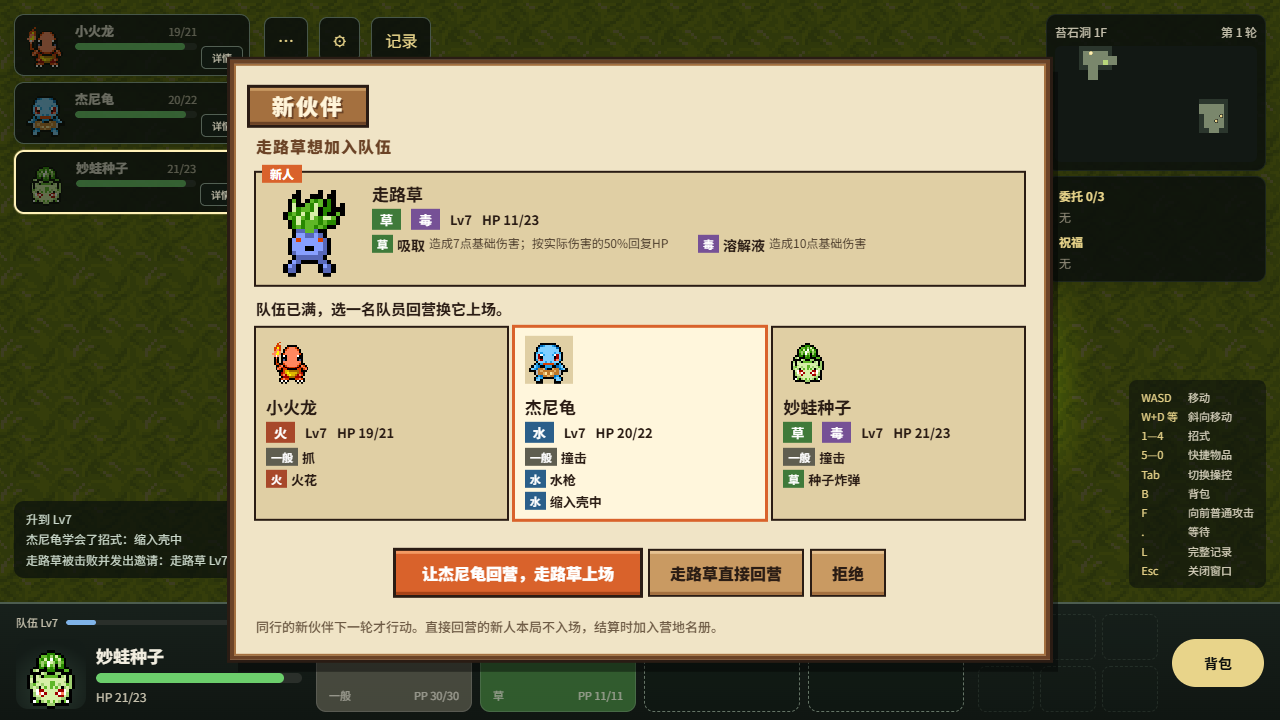
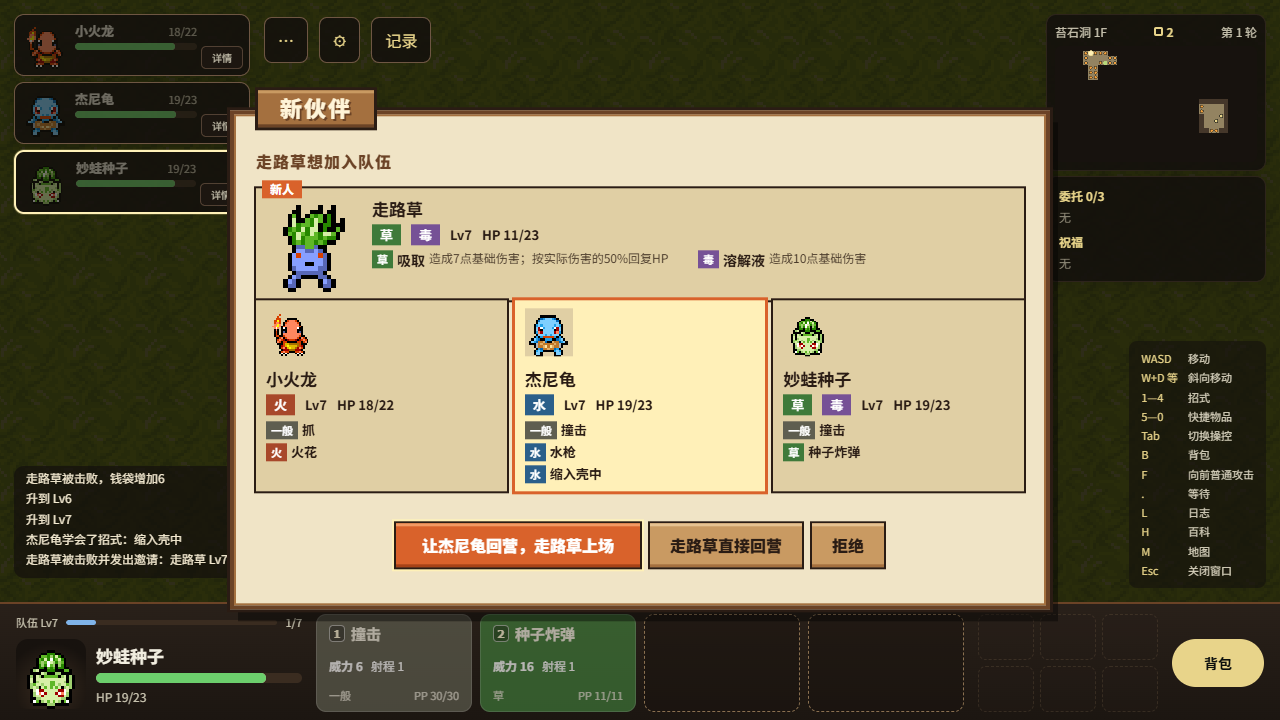
fix(#213): 迷宫 HUD 血条与经验条空槽改用暖色，更新设计稿截图
- hud.css：.hud-hp-track、.hud-experience-track 的空槽底色由灰绿 #2a2f2a 改为 var(--ui-panel-2)（dev 复审 bus 475 指出的剩余一处墨绿）。
- 界面设计稿 img/now：学招、伙伴入队、迷宫商店三张换成第七轮画面（按 dev 的截图步骤在修正后重拍），迷宫主界面与背包按修正后重拍。

Refs #213

diff --git a/src/render/hud.css b/src/render/hud.css
@@ -199,7 +199,7 @@ body.dungeon-mode .hud-experience-track {
   overflow: hidden;
   height: 7px;
   border-radius: 999px;
-  background: #2a2f2a;
+  background: var(--ui-panel-2);
 }
 
 body.dungeon-mode .hud-hp-fill,

diff --git a/docs/05-制作流程/界面设计稿/img/now/README.md b/docs/05-制作流程/界面设计稿/img/now/README.md
@@ -3,7 +3,7 @@ updated: 2026-11-11
 ---
 # 其他画面截图
 
-还没有重做稿的画面的游戏实际截图，取自浏览器检查产物，画面改动后更新。背包、迷宫主界面、学招窗口和伙伴入队是 #213 之后的画面。标题、选择起始伙伴、迷宫主界面和背包已换成 #214 第七轮的纸木配色画面。
+还没有重做稿的画面的游戏实际截图，取自浏览器检查产物，画面改动后更新。背包、迷宫主界面、学招窗口和伙伴入队是 #213 之后的画面。标题、选择起始伙伴、迷宫主界面、背包、学招、伙伴入队和迷宫商店都已换成 #214 第七轮的纸木配色画面。
 
 ## 本目录索引
 
